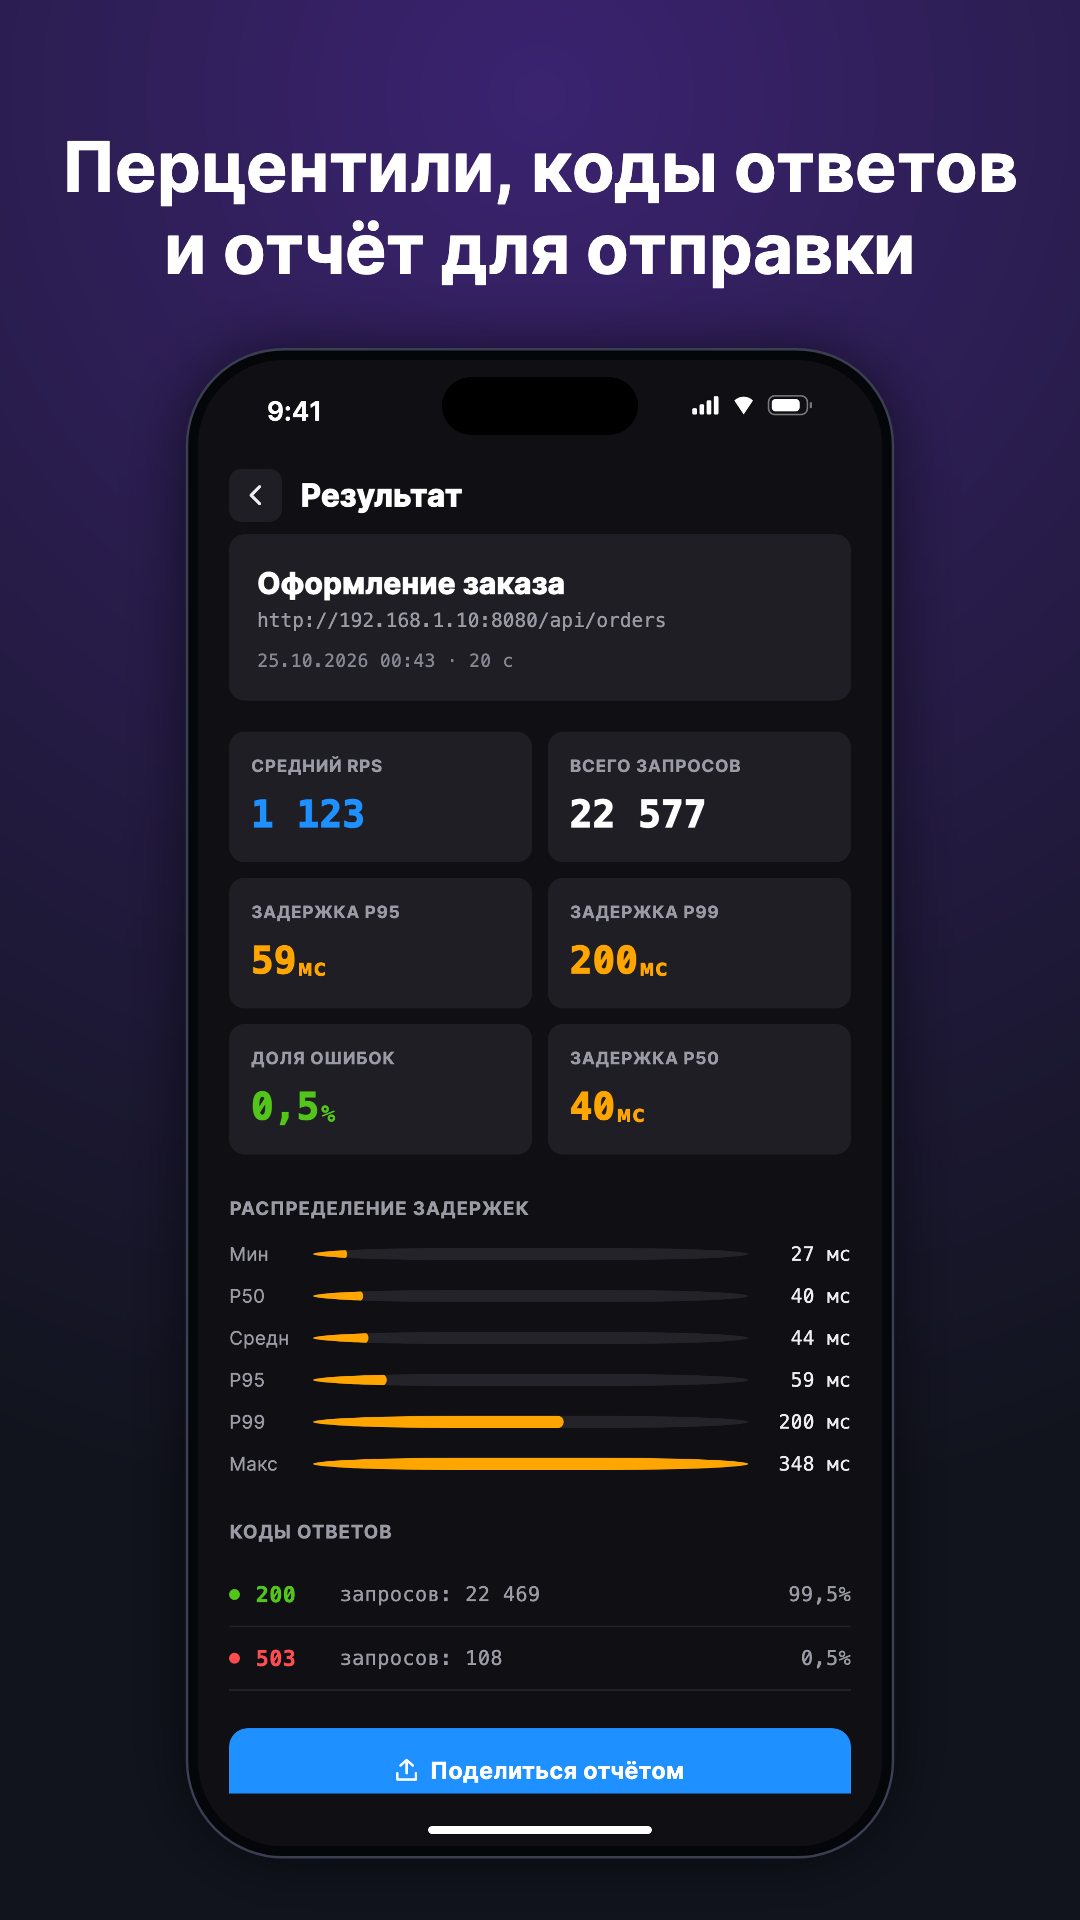
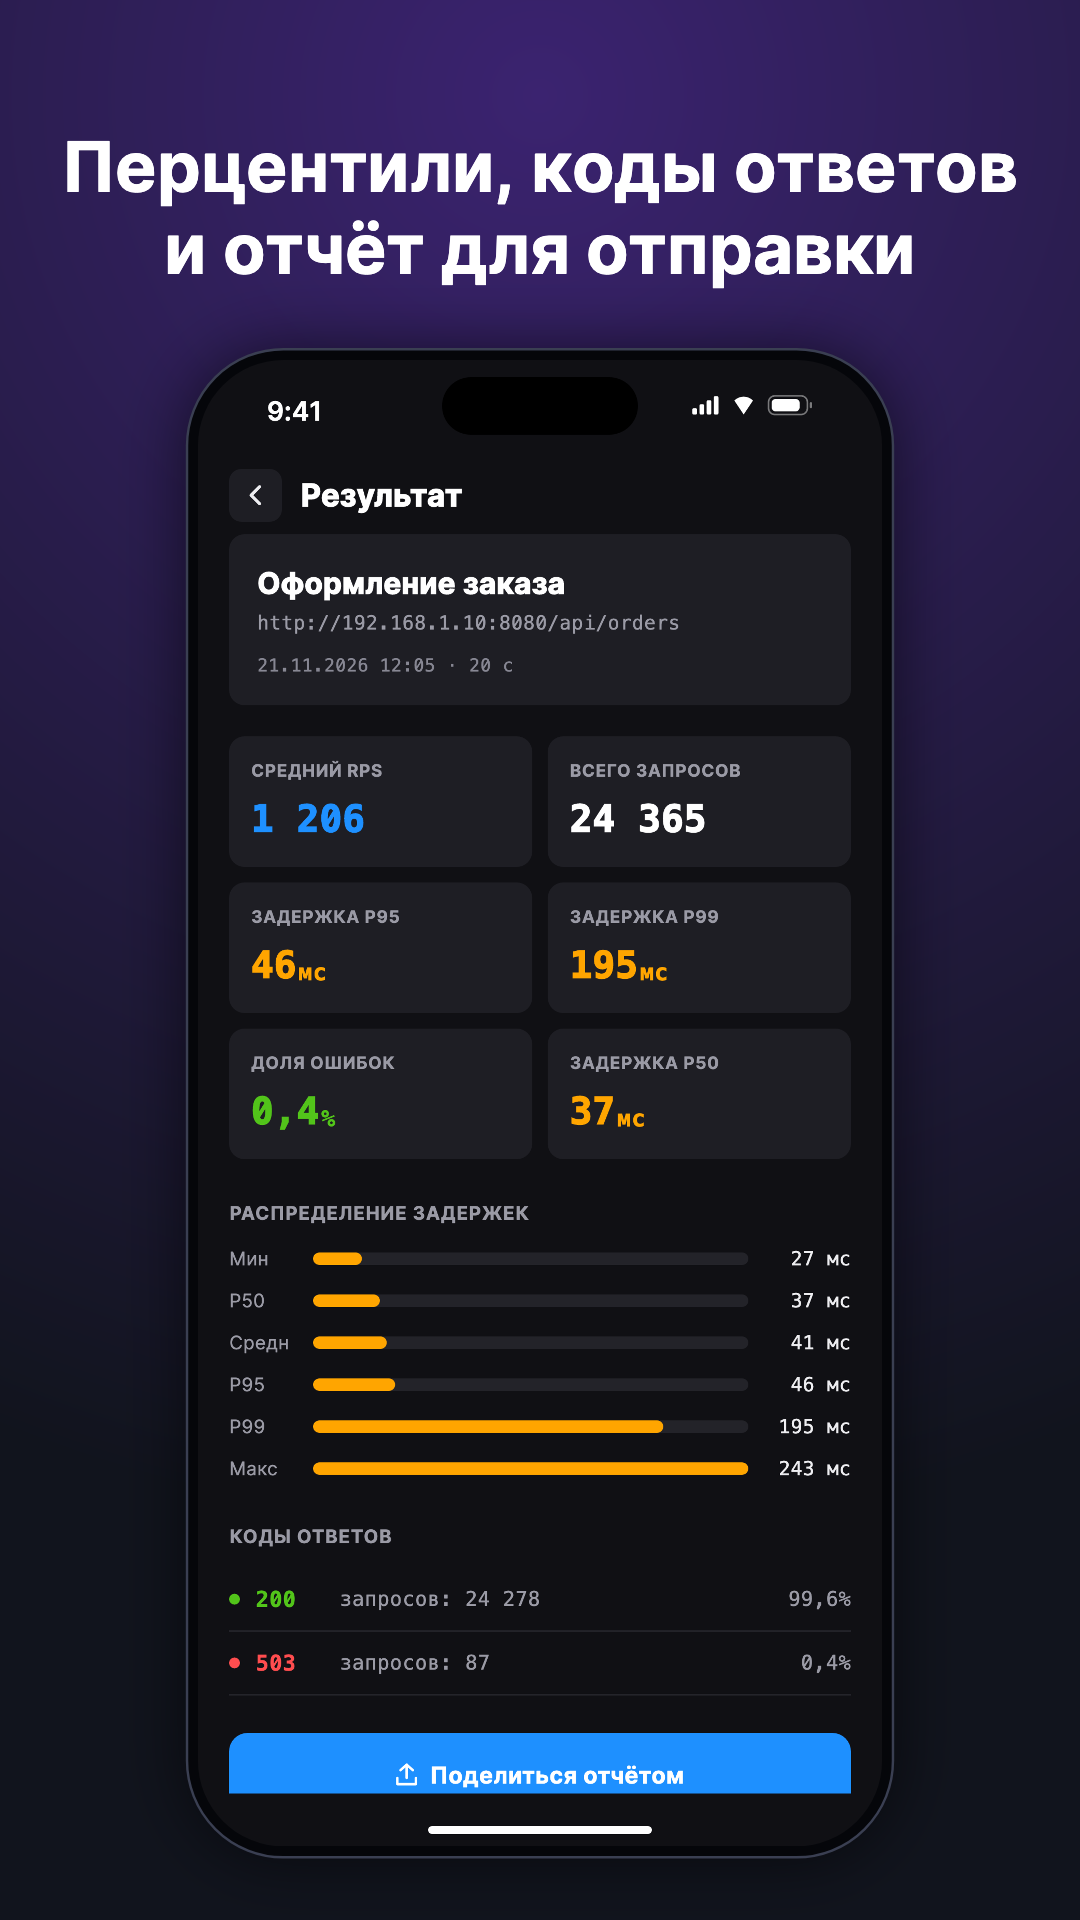
fix: store screenshots format numbers in the listing's culture; regenerate shots
The app formats numbers by the device's regional culture, but the generator left the host's
culture in place, so en-US shots rendered on an en_RU Mac showed "1 130" and "0,4 %".
ShotSession now sets CurrentCulture to the listing culture. Shots regenerated for the
current UI (Plumix 1.0.0-preview.5); the iOS set is uploaded to App Store Connect for 1.0.1.

diff --git a/NetBench/NetBench.Screenshots/ShotSession.cs b/NetBench/NetBench.Screenshots/ShotSession.cs
@@ -1,4 +1,5 @@
 using System.Diagnostics;
+using System.Globalization;
 using System.Reflection;
 using Avalonia;
 using Avalonia.Controls;
@@ -52,7 +53,11 @@ internal sealed class ShotSession : IDisposable
         IsDark = settings.Theme == ThemePreference.Dark;
         _dataDirectory = Directory.CreateTempSubdirectory("netbench-screenshots-").FullName;
         Seed(_dataDirectory, settings, data);
-        LocaleSettings<Strings>.SetLocaleRaw(settings.Culture ?? "en-US");
+        var culture = settings.Culture ?? "en-US";
+        LocaleSettings<Strings>.SetLocaleRaw(culture);
+        // Числа и даты приложение форматирует по региональной культуре устройства; без этого кадры
+        // en-US получали формат машины, на которой их рендерят (на en_RU — «1 130» и «0,4 %»).
+        CultureInfo.CurrentCulture = CultureInfo.DefaultThreadCurrentCulture = CultureInfo.GetCultureInfo(culture);
 
         _semantics = SemanticsBinding.Instance.EnsureSemantics();
         _clock = SchedulerBinding.Instance.CurrentSystemFrameTimeStamp;
